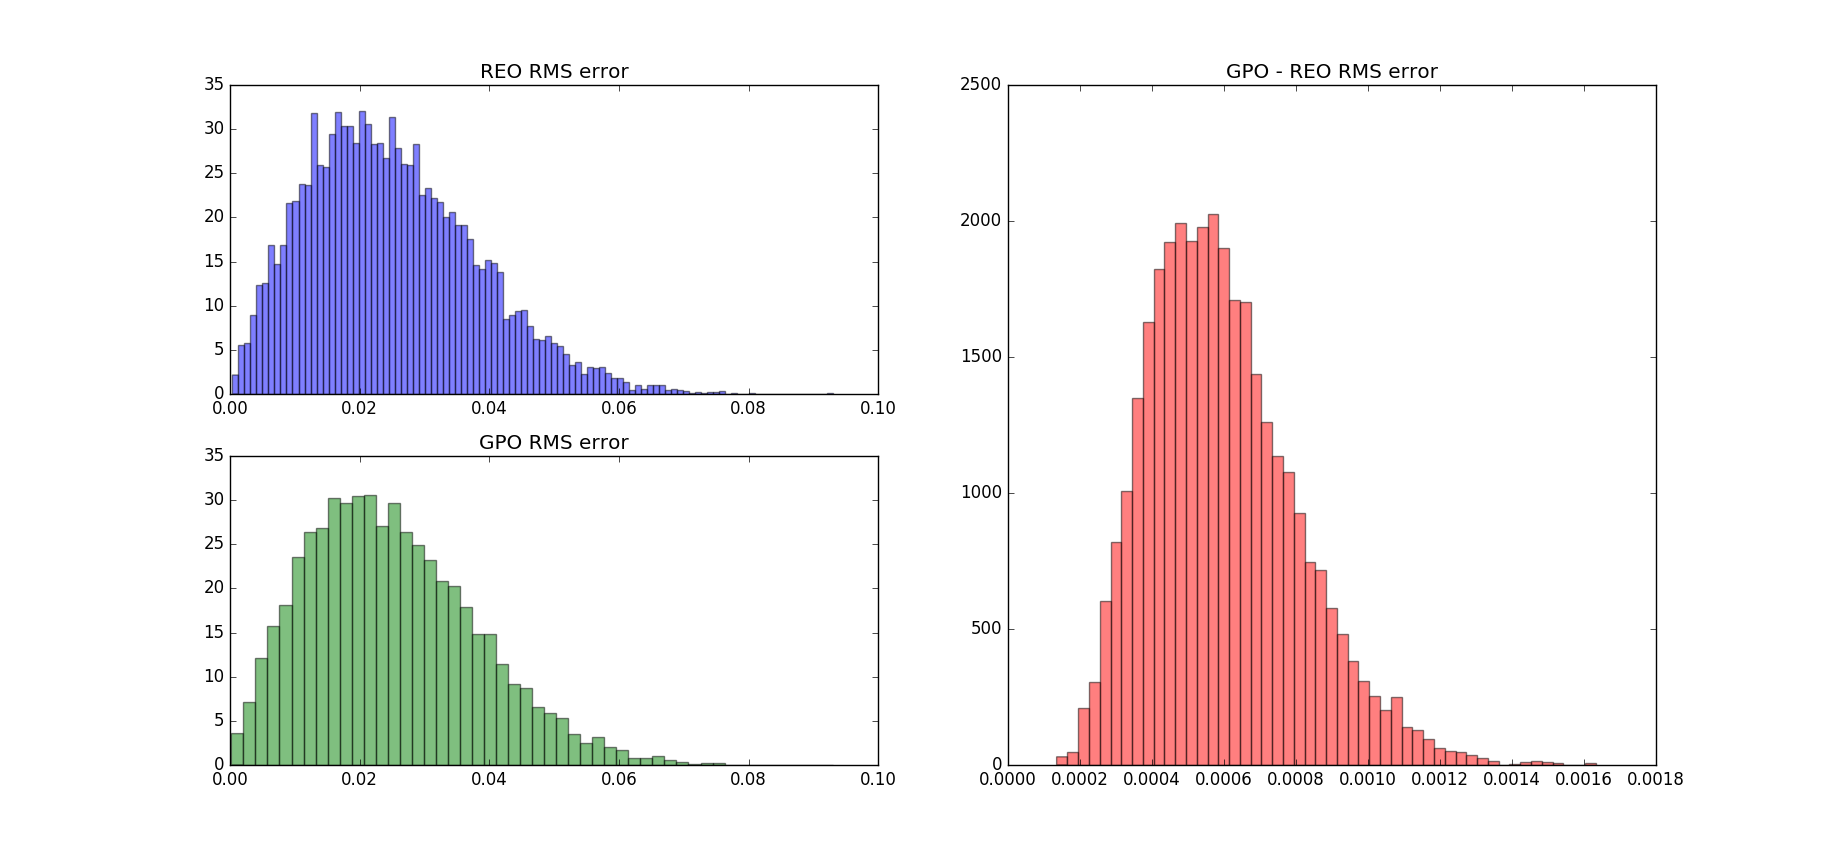
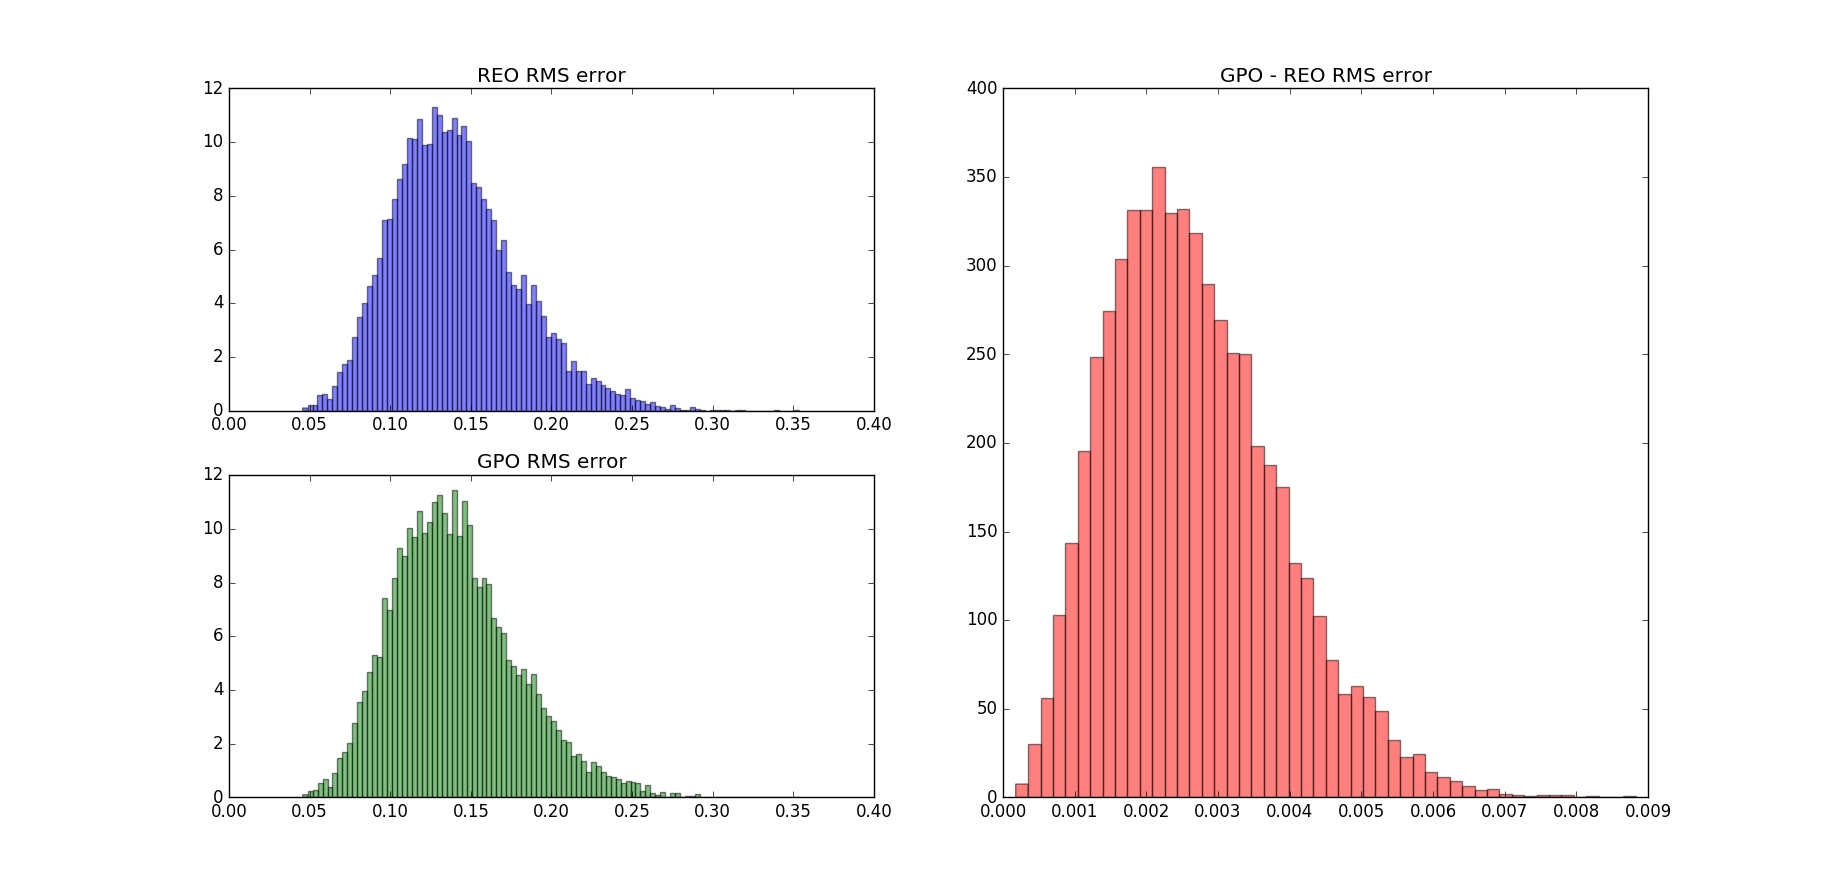
fixed GPO, remade good histogram

diff --git a/python/compare_REO_and_GTSAM.py b/python/compare_REO_and_GTSAM.py
@@ -18,7 +18,7 @@ def get_global_pose(edges, x0):
     return x
 
 def generate_house():
-    num_robots = 1000
+    num_robots = 10000
     perfect_edges = np.array([[1., 1., 1., 1., 2 ** 0.5, 2 ** 0.5 / 2.0, 2 ** 0.5 / 2.0, 2 ** 0.5],
                               [0., 0., 0., 0., 0, 0, 0, 0],
                               [np.pi / 2.0, np.pi / 2.0, np.pi / 2.0, 3.0 * np.pi / 4.0, np.pi / 2.0, np.pi / 2.0, np.pi / 2.0, 0]])
@@ -51,16 +51,16 @@ def generate_house():
     lc_omega = [np.diag([1e5, 1e5, 1e5]) for i in range(lc.shape[1])]
     lc_dir = np.array([1, 1, 1, 1, 1, 1, 1, 1, 1])
 
-    cycles = [['0_'+str(i).zfill(3) for i in range(perfect_edges.shape[1])],
-              ['0_'+str(i).zfill(3) for i in range(5)],
-              ['0_'+str(i).zfill(3) for i in range(6)],
-              ['0_'+str(i).zfill(3) for i in range(3)],
-              ['0_'+str(i).zfill(3) for i in range(7)],
+    cycles = [['0_'+str(i).zfill(3) for i in range(perfect_edges.shape[1] + 1)],
+              ['0_'+str(i).zfill(3) for i in range(5+1)],
+              ['0_'+str(i).zfill(3) for i in range(6+1)],
+              ['0_'+str(i).zfill(3) for i in range(3+1)],
+              ['0_'+str(i).zfill(3) for i in range(7+1)],
 
-              ['0_' + str(i+3).zfill(3) for i in range(2)],
-              ['0_' + str(i+2).zfill(3) for i in range(4)],
-              ['0_' + str(i+4).zfill(3) for i in range(4)],
-              ['0_' + str(i+1).zfill(3) for i in range(6)]]
+              ['0_' + str(i+3).zfill(3) for i in range(2+1)],
+              ['0_' + str(i+2).zfill(3) for i in range(4+1)],
+              ['0_' + str(i+4).zfill(3) for i in range(4+1)],
+              ['0_' + str(i+1).zfill(3) for i in range(6+1)]]
 
     # Turn off some loop closures
     active_lc = [0,1]
@@ -223,9 +223,9 @@ def REO_opt(edges, odom, loops, gst, cov):
         from_id = int(loops[i]['from_node_id'].split('_')[1])
         to_id = int(loops[i]['to_node_id'].split('_')[1])
         if to_id > from_id:
-            cycle = range(from_id, to_id+1)
+            cycle = range(from_id, to_id)
         else:
-            cycle = range(to_id, from_id+1)
+            cycle = range(to_id, from_id)
         cycles.append(cycle)
     z_hat, diff, iter = reo.optimize(odom, dirs, Omegas, lcs, lc_omegas, lc_dirs, cycles, 100, 1e-8)
     x_hat = get_global_pose(z_hat, np.array([0, 0, 0]))
